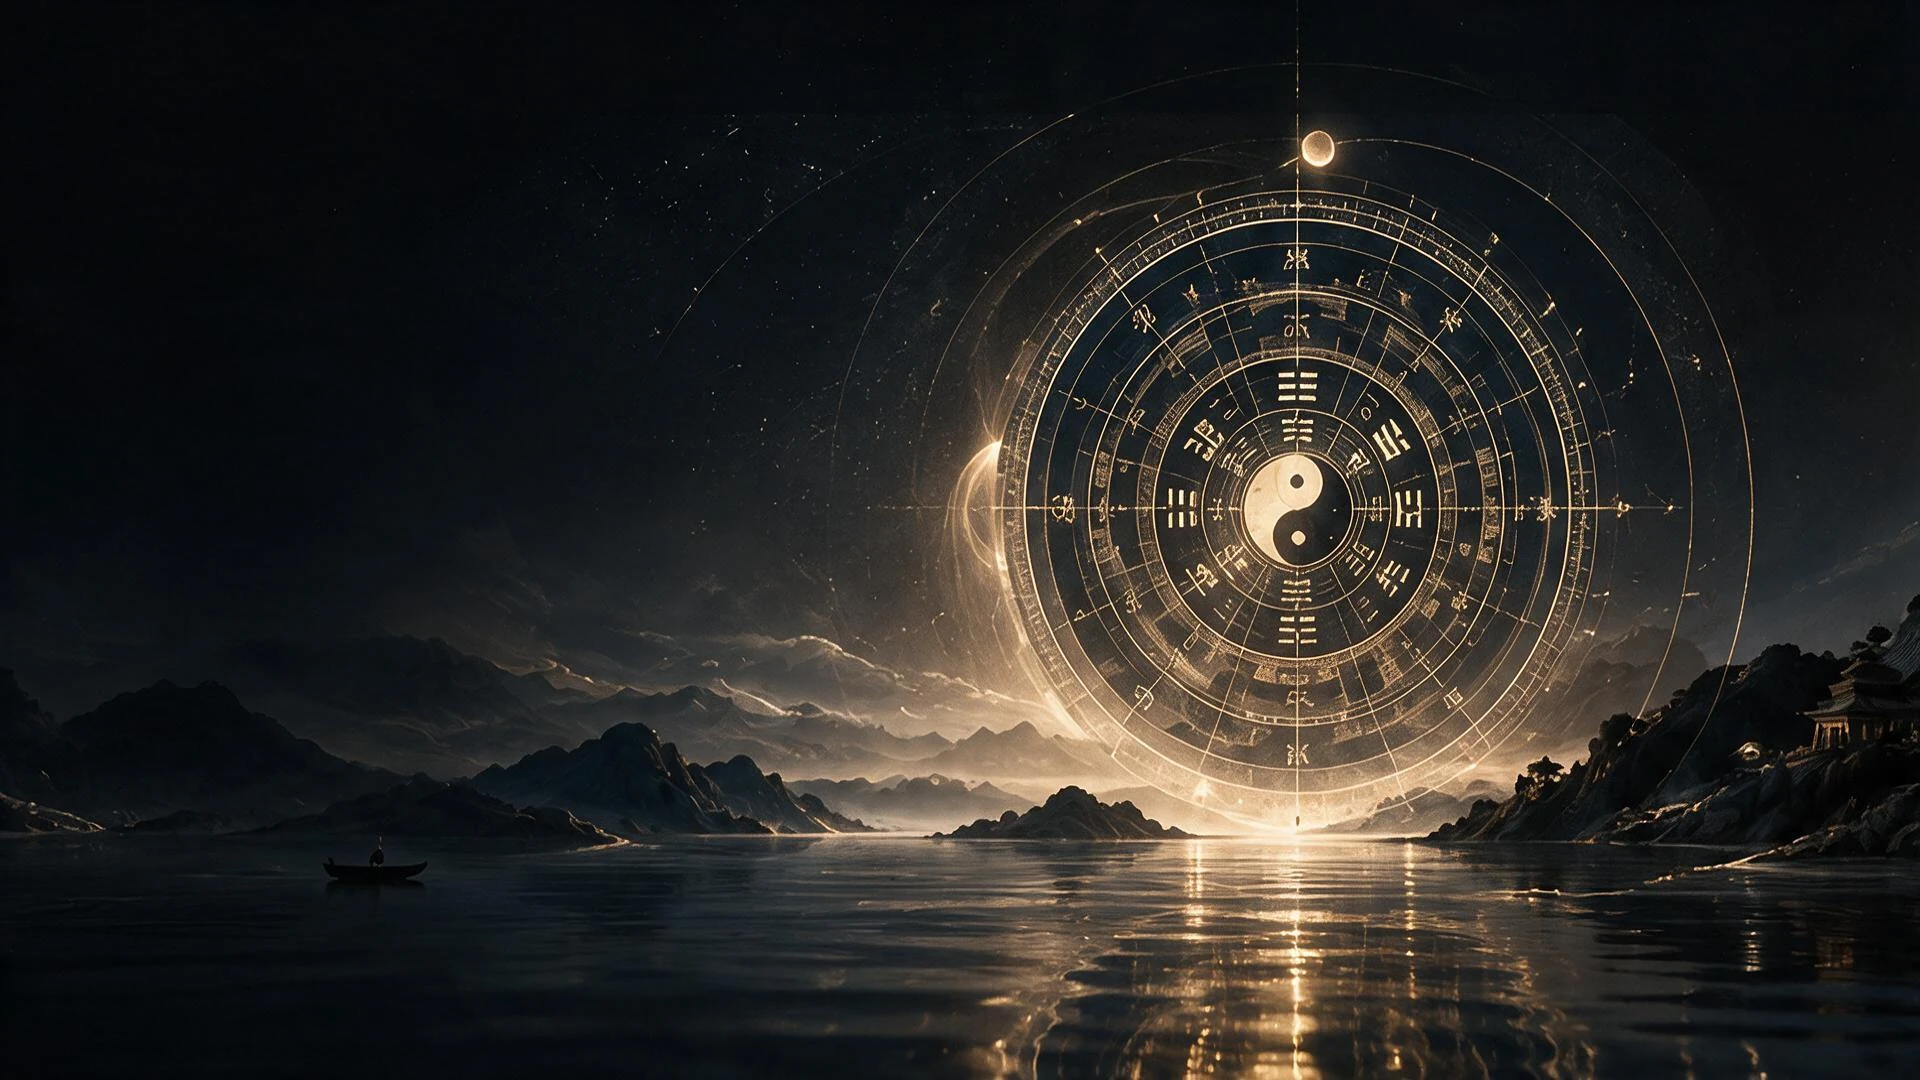
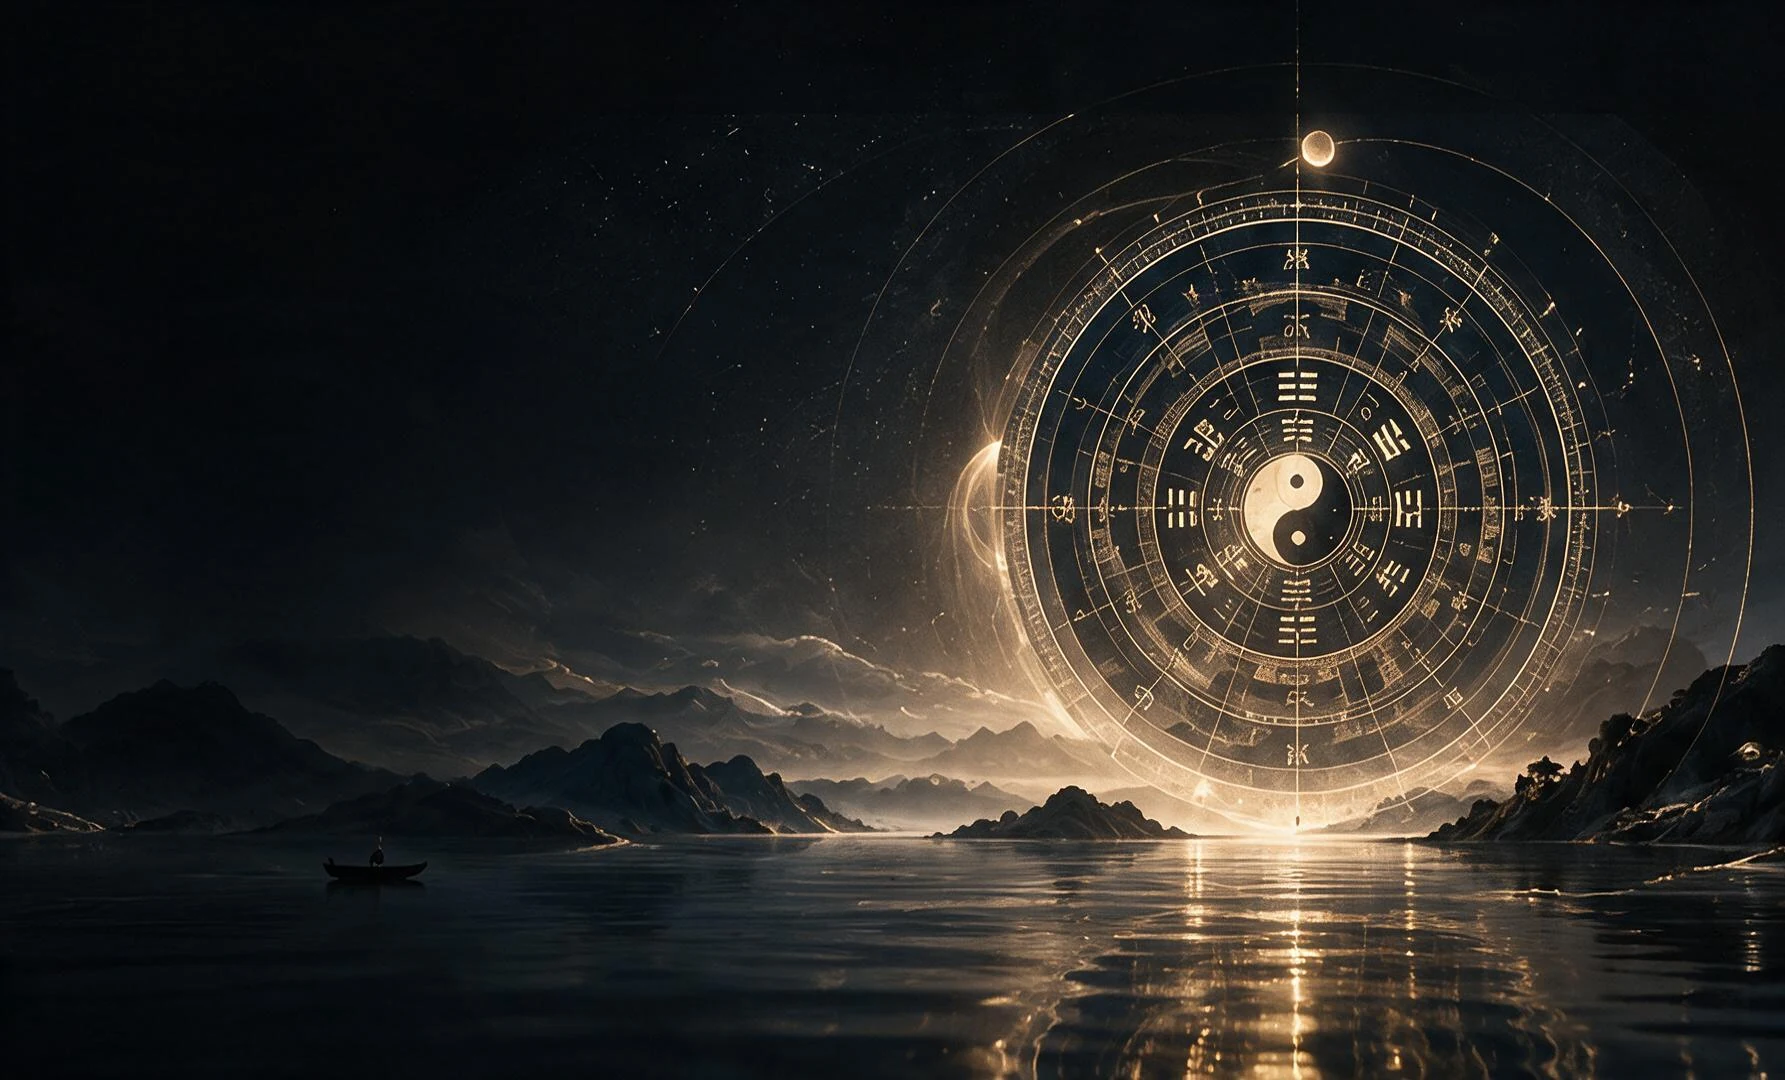
图稿一比一还原(第1批——Hero+三卡+AI区): ①Hero:背景换用户实图hero-cn.webp+文字大幅左移(去max-w居中贴左缘)+四问带具体问题(换工作?/该创业吗?/该继续吗?/何时转折?)加右侧竖排文案+nav压背景(深色半透明+浅字) ②三核心卡:中央圆形图腾+标题看周期/结构/时机+四小项(科技事业财富大运等)+卡底部淡墨背景图(card-bazi/ziwei/qimen.webp)+了解更多 ③AI决策区:深墨山水+人影背景(ai-area.webp覆盖+深遮罩保文字)+左文字+右AI分析卡 ——5资产转WebP+ASCII命名

diff --git a/src/app/HomeClient.tsx b/src/app/HomeClient.tsx
@@ -40,9 +40,9 @@ const modules: ModuleInfo[] = [
 // ── Bento 主卡（上排：三大精算引擎） ──
 // ── Bento 主卡：九宫三大核心（看周期 / 看结构 / 看时机） ──
 const bentoMain = [
-  { num: '01', emoji: '', title: '四柱八字', tag: '看人生周期', desc: '事业 · 财富 · 性格 · 大运——五行喜忌与十年大运的节奏', href: '/bazi', accent: 'gold' },
-  { num: '02', emoji: '', title: '紫微斗数', tag: '看人生结构', desc: '十四主星十二宫——从命宫到人生剧本的完整结构', href: '/ziwei', accent: 'gold' },
-  { num: '03', emoji: '', title: '奇门遁甲', tag: '看当下时机', desc: '决策 · 择时 · 策略——此刻是进是守，局中有象', href: '/qimen', accent: 'gold' },
+  { num: '01', title: '四柱八字', tag: '看人生周期', desc: '科技 · 事业 · 财富 · 大运——五行喜忌与十年大运的节奏', href: '/bazi', sub: ['科技', '事业', '财富', '大运'], bg: '/assets/card-bazi.webp' },
+  { num: '02', title: '紫微斗数', tag: '看人生结构', desc: '十二宫 · 桃花 · 事业 · 财富——从命宫到人生剧本的完整结构', href: '/ziwei', sub: ['十二宫', '桃花', '事业', '财富'], bg: '/assets/card-ziwei.webp' },
+  { num: '03', title: '奇门遁甲', tag: '看当下时机', desc: '决策 · 何时 · 把握 · 时机——此刻是进是守，局中有象', href: '/qimen', sub: ['决策', '何时', '把握', '时机'], bg: '/assets/card-qimen.webp' },
 ]
 // ── 轻工具（克制文字导航——探索更多东方术数） ──
 const quickTools = [
@@ -75,33 +75,32 @@ export default function HomeClient() {
 
   return (
     <>
-      <div className="max-w-6xl mx-auto px-4">
-        {/* ════ Hero：东方山水 × 时空仪盘 Artwork（规格 22 项施工） ════ */}
+      {/* ════ Hero：东方山水 × 时空仪盘 Artwork（规格 22 项施工） ════ */}
         <section className="relative overflow-hidden mb-16" style={{ background: '#050708' }}>
           {/* 山水背景（hero-mountain.svg——天空/五层山/雾/水面/金光） */}
-          <img src="/assets/hero-mountain.webp" alt="" aria-hidden
+          <img src="/assets/hero-cn.webp" alt="" aria-hidden
             className="absolute inset-0 w-full h-full object-cover object-center select-none pointer-events-none" />
           {/* 右侧金色天光强调 */}
           <div className="absolute inset-0 pointer-events-none"
             style={{ background: 'radial-gradient(60% 40% at 78% 8%, rgba(176,138,60,0.14) 0%, transparent 70%)' }} />
 
-          {/* 时空盘（偏右 x~68% 大 560-620——悬浮山水之上） */}
-          <div className="absolute select-none pointer-events-none"
-            style={{ right: '2%', top: '50%', transform: 'translateY(-54%)', width: 'min(46vw, 580px)', opacity: 0.97 }}>
-            <img src="/assets/hero-time-wheel.svg" alt="九宫时空盘——东方天文仪器" className="w-full h-auto" />
-          </div>
-          {/* 水面倒影（垂直翻转 + 模糊 + 低透明 + 渐隐 mask） */}
-          <div className="absolute select-none pointer-events-none"
-            style={{ right: '6%', bottom: '-1%', width: 'min(38vw, 470px)', opacity: 0.14, transform: 'scaleY(-1)',
-              filter: 'blur(5px)', maskImage: 'linear-gradient(to bottom, rgba(0,0,0,0.55), transparent 82%)', WebkitMaskImage: 'linear-gradient(to bottom, rgba(0,0,0,0.55), transparent 82%)' }}>
-            <img src="/assets/hero-time-wheel.svg" alt="" aria-hidden className="w-full h-auto" />
-          </div>
           {/* 水面微光带 */}
           <div className="absolute inset-x-0 bottom-0 h-14 pointer-events-none opacity-60"
             style={{ background: 'linear-gradient(to top, rgba(176,138,60,0.10), transparent)' }} />
 
           {/* 文案层（左 44%——巨大呼吸空间） */}
-          <div className="relative z-10 max-w-6xl mx-auto px-6 md:px-12" style={{ minHeight: '680px' }}>
+          <div className="relative z-10 w-full px-8 md:px-14" style={{ minHeight: '680px' }}>
+            {/* 时空盘（内容区右侧——大 580 悬浮——露出背景太极） */}
+            <div className="absolute select-none pointer-events-none"
+              style={{ right: '-1%', top: '50%', transform: 'translateY(-50%)', width: 'min(46vw, 580px)', opacity: 0.97 }}>
+              <img src="/assets/hero-time-wheel.svg" alt="九宫时空盘——东方天文仪器" className="w-full h-auto" />
+            </div>
+            {/* 水面倒影 */}
+            <div className="absolute select-none pointer-events-none"
+              style={{ right: '4%', bottom: '-2%', width: 'min(36vw, 450px)', opacity: 0.14, transform: 'scaleY(-1)',
+                filter: 'blur(5px)', maskImage: 'linear-gradient(to bottom, rgba(0,0,0,0.55), transparent 82%)', WebkitMaskImage: 'linear-gradient(to bottom, rgba(0,0,0,0.55), transparent 82%)' }}>
+              <img src="/assets/hero-time-wheel.svg" alt="" aria-hidden className="w-full h-auto" />
+            </div>
             <div className="flex flex-col justify-center" style={{ width: '44%', minHeight: '680px', padding: '104px 0 120px' }}>
               <p className="text-[12px] tracking-[0.3em] text-[#C9A85B]/80 mb-7">{getT('home.heroChip')}</p>
               <h1 className="text-[42px] leading-[1.14] md:text-[64px] font-normal font-serif text-[#F5F2EA] mb-7"
@@ -116,13 +115,19 @@ export default function HomeClient() {
               <p className="text-[13px] text-[#9B968B] leading-relaxed mb-10 max-w-sm hidden sm:block">
                 不给你宿命断言，只帮你照见能量与时机——理性做出你自己的决定。
               </p>
-              {/* 四问 */}
-              <div className="flex items-center mb-11">
-                {['事业', '财富', '感情', '人生'].map((t, i) => (
-                  <span key={t} className="flex items-center">
-                    {i > 0 && <span className="w-px h-3 bg-[#3a3d3a] mx-4" />}
-                    <span className="text-[13px] text-[#9B968B] tracking-widest">{t}</span>
-                  </span>
+              {/* 四问（主题 + 具体问题——图稿） */}
+              <div className="flex items-stretch gap-7 mb-12">
+                {[
+                  { t: '事业', q: '换工作？' },
+                  { t: '财富', q: '今年该创业吗？' },
+                  { t: '感情', q: '这段关系该继续吗？' },
+                  { t: '人生', q: '我何时迎来转折？' },
+                ].map((x, i) => (
+                  <div key={x.t} className="relative pl-3">
+                    {i > 0 && <span className="absolute left-0 top-1 bottom-1 w-px bg-[#3a3d3a]" />}
+                    <p className="text-[13px] text-[#C9A85B] tracking-widest mb-1.5">{x.t}</p>
+                    <p className="text-[12px] text-[#8a8478] whitespace-nowrap">{x.q}</p>
+                  </div>
                 ))}
               </div>
               {/* CTA */}
@@ -133,26 +138,47 @@ export default function HomeClient() {
                   开始我的人生推演 →
                 </Link>
               </div>
+            {/* 右侧竖排文案（图稿——竖排小字） */}
+            <div className="hidden xl:block absolute right-10 top-1/2 -translate-y-1/2 select-none pointer-events-none text-right">
+              <p className="writing-vertical text-[12px] tracking-[0.3em] text-[#9B968B]/80 leading-loose" style={{ writingMode: 'vertical-rl' }}>
+                天时地利人和 · 关键时刻是否 · 用在参谋人生
+              </p>
+            </div>
             </div>
           </div>
         </section>
+
+        {/* ════ 内容区（rest——max-w 容器） ════ */}
+        <div className="max-w-6xl mx-auto px-4">
 
         {/* ════ Bento Grid：三大精算引擎 ════ */}
         <section className="mb-12">
           <div className="grid grid-cols-1 md:grid-cols-3 gap-6">
             {bentoMain.map(c => (
               <Link key={c.href} href={c.href}
-                className="group relative overflow-hidden p-8 min-h-[260px] flex flex-col transition-all duration-300 hover:-translate-y-1" style={{ background: "var(--paper)", border: "1px solid var(--border-light)", boxShadow: "var(--shadow-card)" }}>
-                <div className="relative z-10 flex flex-col h-full">
-                  <div className="flex items-baseline gap-3 mb-3">
-                    <span className="text-2xl font-serif font-bold text-gold-500/70 dark:text-gold-400/60 group-hover:text-gold-500 dark:group-hover:text-gold-300 transition-colors">{c.num}</span>
-                    <h2 className="text-lg font-bold font-serif text-gray-900 dark:text-gray-50">{c.title}</h2>
+                className="group relative overflow-hidden flex flex-col items-center text-center transition-all duration-300 hover:-translate-y-1"
+                style={{ background: "var(--paper)", border: "1px solid var(--border-light)", boxShadow: "var(--shadow-card)" }}>
+                <div className="relative z-10 flex flex-col items-center px-8 pt-9 pb-5 w-full">
+                  {/* 中央圆形图腾 */}
+                  <div className="w-[92px] h-[92px] rounded-full border border-gold-500/40 flex items-center justify-center mb-4 group-hover:border-gold-400/70 transition-colors"
+                    style={{ background: 'radial-gradient(circle, rgba(176,138,60,0.10), transparent 70%)' }}>
+                    <span className="text-[26px] font-serif text-gold-600 dark:text-gold-300 font-normal">{c.num}</span>
                   </div>
-                  <p className="text-[11px] font-medium tracking-[0.2em] text-gold-600/80 dark:text-gold-400/70 mb-2">{c.tag}</p>
-                  <p className="text-xs text-gray-500 dark:text-gray-400 leading-relaxed mb-4 flex-1">{c.desc}</p>
-                  <span className="text-xs font-medium text-gray-700 dark:text-gray-300 group-hover:text-gold-600 dark:group-hover:text-gold-300 transition-colors">
-                    开始推演 →
-                  </span>
+                  <h2 className="text-xl font-serif font-medium text-gray-900 dark:text-gray-50 mb-1">{c.title}</h2>
+                  <p className="text-[12px] font-medium tracking-[0.25em] text-gold-600/90 dark:text-gold-400/80 mb-4">{c.tag}</p>
+                  <p className="text-[11px] text-gray-500 dark:text-gray-400 leading-relaxed mb-5">{c.desc}</p>
+                  {/* 四小项 */}
+                  <div className="flex gap-5 mb-2">
+                    {c.sub.map(x => (
+                      <span key={x} className="text-[11px] text-gray-600 dark:text-gray-300 tracking-wider">{x}</span>
+                    ))}
+                  </div>
+                  <span className="text-[11px] text-gray-400 group-hover:text-gold-600 transition-colors mt-2">了解更多 →</span>
+                </div>
+                {/* 卡底部背景图（淡墨山水横条——图稿） */}
+                <div className="relative w-full h-[120px] overflow-hidden">
+                  <img src={c.bg} alt="" aria-hidden className="absolute inset-0 w-full h-full object-cover object-center" />
+                  <div className="absolute inset-0 bg-gradient-to-t from-transparent to-[var(--paper)]" style={{ background: 'linear-gradient(to top, var(--paper), rgba(245,242,234,0.2))' }} />
                 </div>
               </Link>
             ))}
@@ -166,9 +192,11 @@ export default function HomeClient() {
 
         {/* ════ AI 决策分析（规范 03：深色 40/60——人生推演报告） ════ */}
         <section className="mb-24">
-          <div className="overflow-hidden"
-            style={{ background: 'var(--bg-dark)' }}>
-            <div className="grid md:grid-cols-[40fr_60fr]">
+          <div className="relative overflow-hidden">
+            {/* 背景图（深墨山水+人影——图稿 AI 区） */}
+            <img src="/assets/ai-area.webp" alt="" aria-hidden className="absolute inset-0 w-full h-full object-cover object-center" />
+            <div className="absolute inset-0" style={{ background: 'linear-gradient(90deg, rgba(8,11,12,0.82) 0%, rgba(8,11,12,0.55) 45%, rgba(8,11,12,0.35) 100%)' }} />
+            <div className="relative z-10 grid md:grid-cols-[40fr_60fr]">
               {/* 左 40%：主张 */}
               <div className="p-8 md:p-14 flex flex-col justify-center">
                 <p className="text-[12px] tracking-[0.3em] text-[#B23A3A] font-normal mb-4">AI 决策分析</p>

diff --git a/src/components/Nav.tsx b/src/components/Nav.tsx
@@ -84,7 +84,7 @@ export default function Nav() {
   }
 
   return (
-    <nav className="fixed top-0 left-0 right-0 z-50 glass-panel shadow-sm">
+    <nav className="fixed top-0 left-0 right-0 z-50 shadow-sm" style={{ background: "rgba(8,11,12,0.55)", backdropFilter: "blur(10px)", borderBottom: "1px solid rgba(176,138,60,0.14)" }}>
       <div className="max-w-6xl mx-auto px-4 h-16 flex items-center justify-between">
         {/* Logo */}
         <Link href="/" className="flex items-center gap-2 flex-shrink-0">
@@ -96,19 +96,19 @@ export default function Nav() {
 
         {/* Desktop Nav */}
         <div className="hidden lg:flex items-center gap-4">
-          <Link href="/" className="text-sm text-gray-600 hover:text-jade-500 transition-colors whitespace-nowrap">
+          <Link href="/" className="text-sm text-[#BDB7AA] hover:text-gold-300 transition-colors whitespace-nowrap">
             {getT('nav.home')}
           </Link>
 
-          <Link href="/tools" className="text-sm text-gray-600 hover:text-jade-500 transition-colors whitespace-nowrap">排盘推演</Link>
-          <Link href="/huangli" className="text-sm text-gray-600 hover:text-jade-500 transition-colors whitespace-nowrap">每日宜忌</Link>
-          <Link href="/xueguan" className="text-sm text-gray-600 hover:text-jade-500 transition-colors whitespace-nowrap">古籍书馆</Link>
+          <Link href="/tools" className="text-sm text-[#BDB7AA] hover:text-gold-300 transition-colors whitespace-nowrap">排盘推演</Link>
+          <Link href="/huangli" className="text-sm text-[#BDB7AA] hover:text-gold-300 transition-colors whitespace-nowrap">每日宜忌</Link>
+          <Link href="/xueguan" className="text-sm text-[#BDB7AA] hover:text-gold-300 transition-colors whitespace-nowrap">古籍书馆</Link>
 
           {/* 全部工具 Dropdown */}
           <div className="relative">
             <button
               onClick={() => setToolsOpen(!toolsOpen)}
-              className="text-sm text-gray-600 hover:text-jade-500 transition-colors flex items-center gap-1 whitespace-nowrap"
+              className="text-sm text-[#BDB7AA] hover:text-gold-300 transition-colors flex items-center gap-1 whitespace-nowrap"
               aria-label="全部工具"
               aria-expanded={toolsOpen}
             >
@@ -149,15 +149,15 @@ export default function Nav() {
           {loggedIn === null ? (
             <span className="text-sm text-gray-400 whitespace-nowrap">…</span>
           ) : loggedIn ? (
-            <Link href="/mycharts" className="text-sm text-gray-600 dark:text-gray-300 hover:text-jade-500 transition-colors whitespace-nowrap" title="我的命盘">📁 我的命盘</Link>
+            <Link href="/mycharts" className="text-sm text-[#BDB7AA] hover:text-gold-300 transition-colors whitespace-nowrap" title="我的命盘">📁 我的命盘</Link>
           ) : (
-            <Link href="/login" className="text-sm text-gray-600 dark:text-gray-300 hover:text-jade-500 transition-colors whitespace-nowrap">登录</Link>
+            <Link href="/login" className="text-sm text-[#BDB7AA] hover:text-gold-300 transition-colors whitespace-nowrap">登录</Link>
           )}
 
           {/* 主题切换（夜/昼） */}
           <button
             onClick={toggleTheme}
-            className="text-sm text-gray-600 hover:text-jade-500 transition-colors flex items-center gap-1 border border-gray-300 dark:border-gray-600 rounded px-2.5 py-1"
+            className="text-sm text-[#BDB7AA] hover:text-gold-300 transition-colors flex items-center gap-1 border border-gray-300 dark:border-gray-600 rounded px-2.5 py-1"
             aria-label={night ? '切换到白天模式' : '切换到夜晚模式'}
             title={night ? '点击切换为白天（昼）' : '点击切换为夜晚（夜）'}
           >
@@ -168,7 +168,7 @@ export default function Nav() {
           <div className="relative">
             <button
               onClick={() => setLangOpen(!langOpen)}
-              className="text-sm text-gray-600 hover:text-jade-500 transition-colors flex items-center gap-1 border border-gray-300 rounded px-2 py-1"
+              className="text-sm text-[#BDB7AA] hover:text-gold-300 transition-colors flex items-center gap-1 border border-gray-300 rounded px-2 py-1"
               aria-label="切换语言"
               aria-expanded={langOpen}
             >
